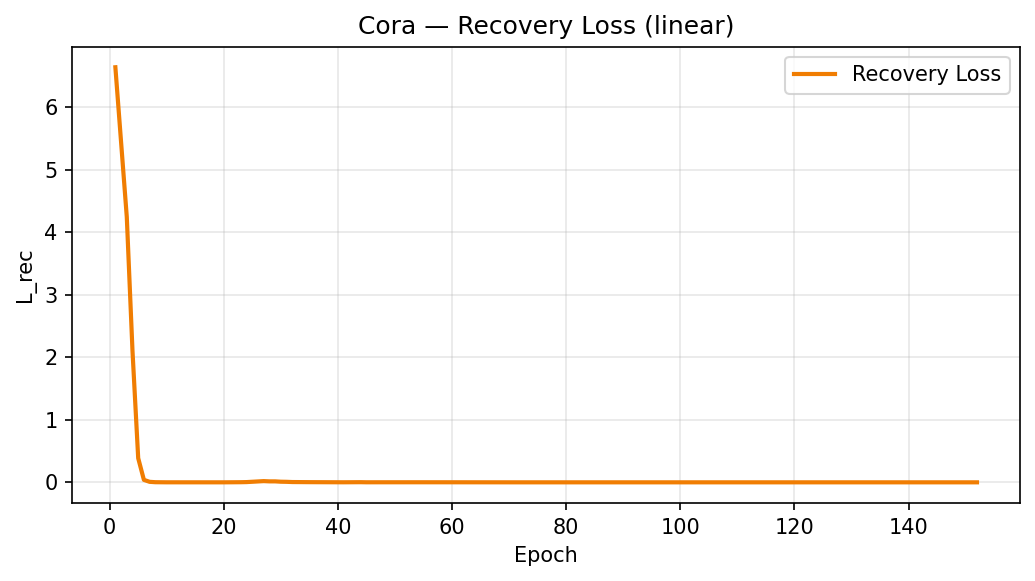
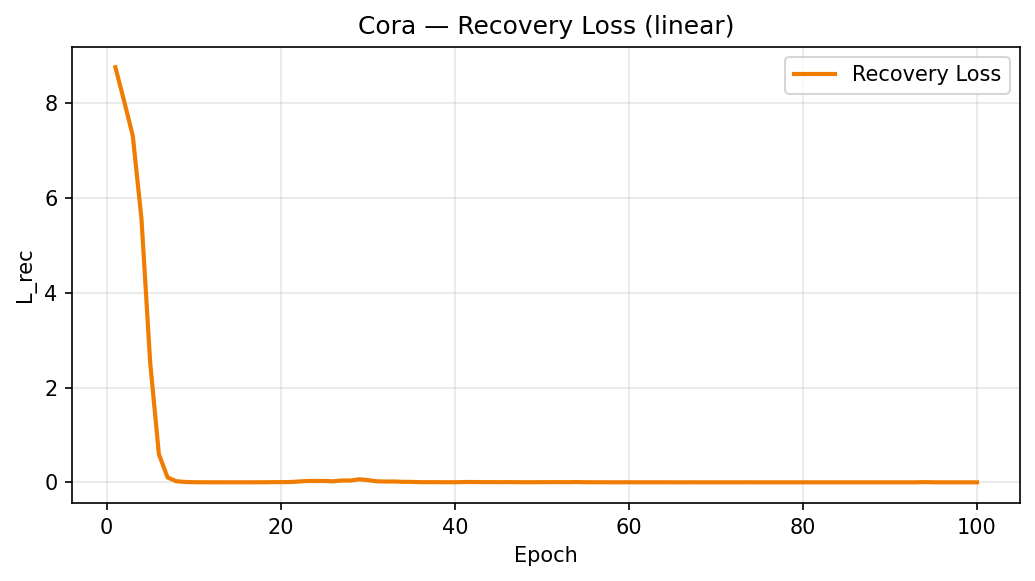
Done with optimizing LSH attention code now

diff --git a/src/model/lsh_attention.py b/src/model/lsh_attention.py
@@ -91,8 +91,11 @@ class LearnedLSHAttention(nn.Module):
         h_global     : (N, hidden_dim)
         bucket_logits: dict with 'q' and 'k' → (N, B)  [for hash loss]
         """
-        N = Q.size(0)
+        N, H, D_h = Q.size(0), self.num_heads, self.head_dim
         device = Q.device
+
+        # Get the max allowed index for your embedding table :: to be needed later
+        max_deg_val = self.deg_src_emb.num_embeddings - 1
 
         # ── Step 1: Bucket logits ─────────────────────────────────────
         q_input = torch.cat([Q, lap_pe], dim=-1)    # (N, d+k)
@@ -104,86 +107,167 @@ class LearnedLSHAttention(nn.Module):
         bq = l_q.argmax(dim=-1)                     # (N,)  — query bucket ids
         bk = l_k.argmax(dim=-1)                     # (N,)  — key   bucket ids
 
-        # ── Step 2: Sparse pair construction ─────────────────────────
-        lsh_pairs  = self._lsh_pairs(bq, bk, N, device)    # (2, P_lsh)
-        graph_pairs = edge_index                            # (2, E)
+        # Step 2 : Sort nodes by bucket ID
+        # We sort Queries and Keys separately because they might land in different buckets
+        q_idx = torch.argsort(bq)
+        k_idx = torch.argsort(bk)
 
-        # Union — concatenate then deduplicate
-        all_pairs = torch.cat([lsh_pairs, graph_pairs], dim=1)  # (2, P)
-        all_pairs = torch.unique(all_pairs, dim=1)               # deduplicate
+        # Step 3 : Reorder everything
+        Q_s, K_s, V_s = Q[q_idx], K[k_idx], V[k_idx]
+        PE_q_s, PE_k_s = lap_pe[q_idx], lap_pe[k_idx]
+        deg_q_s, deg_k_s = deg[q_idx], deg[k_idx]
 
-        src_p = all_pairs[0]   # query nodes  i
-        dst_p = all_pairs[1]   # key   nodes  j
+        # Step 4 : Create Nested Tensors
+        # Find bucket sizes (e.g., how many Queries in bucket 0, 1, 2...)
+        q_counts = torch.bincount(bq, minlength=self.num_buckets)
+        k_counts = torch.bincount(bk, minlength=self.num_buckets)
 
-        # ── Step 3: Attention scores ──────────────────────────────────
-        # Reshape to multi-head
-        Q_h = Q.view(N, self.num_heads, self.head_dim)   # (N, H, d/H)
+        # Step 4.1 : Calculate offsets (starting positions) for each bucket
+        # [0, count1, count1+count2, ...]
+        q_offsets = torch.cat([torch.zeros(1, dtype=torch.long, device=Q.device), q_counts.cumsum(0)])
+        k_offsets = torch.cat([torch.zeros(1, dtype=torch.long, device=Q.device), k_counts.cumsum(0)])
+
+        q_list = []
+        k_list = []
+        v_list = []
+        bias_list = []
+
+        # Step 5 :: iterate over buckets and find the attention scores
+        for b in range(self.num_buckets):
+            # Step 5.1 : Get the start and end indices for this bucket in the sorted arrays
+            s_q, e_q = q_offsets[b], q_offsets[b+1]
+            s_k, e_k = k_offsets[b], k_offsets[b+1]
+
+            # Skip if either side is empty (no attention possible)
+            if s_q == e_q or s_k == e_k:
+                continue
+
+            # Step 5.2 : Slice the sorted tensors
+            q_b = Q_s[s_q:e_q].view(-1, H, D_h).transpose(0, 1) # (H, Nq, Dh)
+            k_b = K_s[s_k:e_k].view(-1, H, D_h).transpose(0, 1) # (H, Nk, Dh)
+            v_b = V_s[s_k:e_k].view(-1, H, D_h).transpose(0, 1) # (H, Nk, Dh)
+
+            # Step 5.3 : Efficient PE Distance (Difference) inside the bucket
+            # shape: (Nq, Nk)
+            pe_q_b = PE_q_s[s_q:e_q]
+            pe_k_s_b = PE_k_s[s_k:e_k]
+
+            # Step 5.4 : Square distance: ||a-b||^2 = ||a||^2 + ||b||^2 - 2ab^T
+            dist_sq = (pe_q_b**2).sum(-1, keepdim=True) + \
+                    (pe_k_s_b**2).sum(-1, keepdim=True).T - \
+                    2 * torch.matmul(pe_q_b, pe_k_s_b.T)
+
+            # Step 5.5 : Take sqrt and bucketize for the SPD bias
+            dist = torch.sqrt(dist_sq.clamp(min=1e-9))
+            spd_idx = torch.bucketize(dist, self.spd_boundaries)
+
+            # Step 5.6 : Construct the Bias (H, Nq, Nk)
+            # SPD bias lookup
+            b_spd = self.spd_bias(spd_idx) # (Nq, Nk, H)
+
+            # Step 5.7 : Degree bias lookup
+            # Clamp the degrees so they never exceed that max index
+            d_q_clamped = deg_q_s[s_q:e_q].clamp(0, max_deg_val)
+            d_k_clamped = deg_k_s[s_k:e_k].clamp(0, max_deg_val)
+
+            # 3. Now perform the lookup safely
+            b_deg = self.deg_src_emb(d_q_clamped).unsqueeze(1) + \
+                    self.deg_dst_emb(d_k_clamped).unsqueeze(0) # (Nq, Nk, H)
+
+            # Combine and permute to (H, Nq, Nk) to match SDPA requirements
+            bias_b = (b_spd + b_deg).permute(2, 0, 1)
+
+            q_list.append(q_b)
+            k_list.append(k_b)
+            v_list.append(v_b)
+            bias_list.append(bias_b)
+
+        # Step 6 : 
+        out_list = []
+        for i in range(len(q_list)):
+            # q_b: (H, Nq, Dh), k_b: (H, Nk, Dh), bias_b: (H, Nq, Nk)
+            
+            # We call SDPA on regular tensors one bucket at a time
+            # This allows us to use the structural bias as the mask
+            bucket_out = F.scaled_dot_product_attention(
+                q_list[i], 
+                k_list[i], 
+                v_list[i], 
+                attn_mask=bias_list[i],
+                dropout_p=self.dropout if self.training else 0.0,
+                is_causal=False
+            )
+            out_list.append(bucket_out)
+        
+        # ── Step 7: Restoration ───────────────────────
+        # 7.1 Create a buffer for the reordered output
+        # Shape: (N, H, head_dim)
+        h_lsh = torch.zeros(N, self.num_heads, self.head_dim, device=device)
+
+        # 7.2 Use the offsets to scatter the results back
+        out_ptr = 0  # Pointer to track which element of out_list we are using
+        for i, b in enumerate(range(self.num_buckets)):
+            s_q, e_q = q_offsets[b], q_offsets[b+1]
+            if s_q == e_q or k_offsets[b] == k_offsets[b+1]:
+                continue
+            
+            # The i-th element in out_list corresponds to bucket b
+            # We move (H, Nq, Dh) -> (Nq, H, Dh)
+            # Get the output for THIS specific non-empty bucket
+            bucket_output = out_list[out_ptr].transpose(0, 1) # (Nq_b, H, Dh)
+            
+            # Map back to original indices using the sorted index map
+            h_lsh[q_idx[s_q:e_q]] = bucket_output
+            
+            out_ptr += 1 # Move to the next result in out_list
+
+        # Step 8 : Process Graph Edges: Handle the edge_index pairs that LSH might have missed
+        # 8.1 Get source and target nodes for graph edges
+        src, dst = edge_index[0], edge_index[1]
+
+        # 8.2 Compute scores for these edges
+        # Reshape Q, K, V to (N, H, Dh) first
+        Q_h = Q.view(N, self.num_heads, self.head_dim)
         K_h = K.view(N, self.num_heads, self.head_dim)
         V_h = V.view(N, self.num_heads, self.head_dim)
 
-        # Dot-product score per head
-        q_pairs = Q_h[src_p]   # (P, H, d/H)
-        k_pairs = K_h[dst_p]   # (P, H, d/H)
-        scores  = (q_pairs * k_pairs).sum(-1) / (self.head_dim ** 0.5)  # (P, H)
+        q_e = Q_h[src] # (E, H, Dh)
+        k_e = K_h[dst] # (E, H, Dh)
 
-        # SPD bias
-        pe_i      = lap_pe[src_p]                         # (|P|, k)
-        pe_j      = lap_pe[dst_p]                         # (|P|, k)
-        pe_dist   = (pe_i - pe_j).norm(dim=-1)            # (|P|,)
-        spd_proxy = torch.bucketize(pe_dist, self.spd_boundaries)  # (|P|,) long
-        spd_b     = self.spd_bias(spd_proxy)              # (|P|, H)
-        scores    = scores + spd_b
+        # Dot product over the head_dim: (E, H)
+        edge_scores = (q_e * k_e).sum(-1) / (self.head_dim ** 0.5)
+
+        # 8.3 Apply the same structural biases to the edges
+        # PE distance bias
+        # Ensure the biases are (E, H)
+        edge_pe_dist = (lap_pe[src] - lap_pe[dst]).norm(dim=-1)
+        edge_spd_bin = torch.bucketize(edge_pe_dist, self.spd_boundaries)
+        edge_scores = edge_scores + self.spd_bias(edge_spd_bin)
 
         # Degree bias
-        deg_src   = deg[src_p].clamp(0, self.deg_src_emb.num_embeddings - 1)
-        deg_dst   = deg[dst_p].clamp(0, self.deg_dst_emb.num_embeddings - 1)
-        scores    = scores + self.deg_src_emb(deg_src) + self.deg_dst_emb(deg_dst)
+        edge_deg_src = deg[src].clamp(0, max_deg_val)
+        edge_deg_dst = deg[dst].clamp(0, max_deg_val)
+        edge_scores = edge_scores + self.deg_src_emb(edge_deg_src) + self.deg_dst_emb(edge_deg_dst)
 
-        # ── Step 4: Sparse softmax (per query node, per head) ─────────
-        # pyg softmax: normalises over all j for each i
-        # We do it head-by-head stacked on dim 1
-        alpha = pyg_softmax(scores, src_p, num_nodes=N)  # (P, H)
-        alpha = self.attn_drop(alpha)
+        # 8.4 Sparse Softmax and Aggregation
+        edge_attn = pyg_softmax(edge_scores, src, num_nodes=N)
+        edge_attn = self.attn_drop(edge_attn)
+        
+        # Aggregate values: Σ α_ij * V_j
+        h_graph = torch.zeros(N, self.num_heads, self.head_dim, device=device)
+        # Reshape src for scattering: (E) -> (E, 1, 1) then expand to (E, H, Dh)
+        index = src.view(-1, 1, 1).expand(-1, self.num_heads, self.head_dim)
+        values = edge_attn.unsqueeze(-1) * V_h[dst] # (E, H, 1) * (E, H, Dh) -> (E, H, Dh)
 
-        # ── Step 5: Value aggregation ─────────────────────────────────
-        # h_global_i = Σ_{j∈P(i)} α_ij · V_j
-        v_pairs   = V_h[dst_p]                           # (P, H, d/H)
-        weighted  = alpha.unsqueeze(-1) * v_pairs        # (P, H, d/H)
+        h_graph.scatter_add_(0, index, values)
 
-        h_global  = torch.zeros(N, self.num_heads, self.head_dim, device=device)
-        h_global.scatter_add_(0,
-            src_p.unsqueeze(-1).unsqueeze(-1).expand_as(weighted),
-            weighted)
+        # 9.1 Combine branches (Sum or Gated Sum) :: Final Combination and Projection
+        # For now, a simple weighted sum or residual-style addition
+        h_total = h_lsh + h_graph
 
-        h_global  = h_global.view(N, self.hidden_dim)   # (N, d)
-        h_global  = self.out_proj(h_global)
+        # 9.2 Final linear projection
+        h_total = h_total.view(N, self.hidden_dim)
+        out = self.out_proj(h_total)
+        out = F.dropout(out, p=self.dropout, training=self.training)
 
-        bucket_logits = {"q": l_q, "k": l_k}
-        return h_global, bucket_logits
-
-    # ─────────────────────────────────────────────────────────────────
-
-    def _lsh_pairs(self, bq: torch.Tensor, bk: torch.Tensor,
-                   N: int, device: torch.device) -> torch.Tensor:
-        """
-        Build P_LSH = {(i,j) | bQ(i) == bK(j)} efficiently.
-        Groups nodes by bucket, then forms all pairs within the same bucket.
-        """
-        pairs = []
-        for b in range(self.num_buckets):
-            q_nodes = (bq == b).nonzero(as_tuple=True)[0]   # nodes with bQ=b
-            k_nodes = (bk == b).nonzero(as_tuple=True)[0]   # nodes with bK=b
-            if q_nodes.numel() == 0 or k_nodes.numel() == 0:
-                continue
-            # Cartesian product
-            ii = q_nodes.unsqueeze(1).expand(-1, k_nodes.size(0)).reshape(-1)
-            jj = k_nodes.unsqueeze(0).expand(q_nodes.size(0), -1).reshape(-1)
-            # Remove self-loops
-            mask = ii != jj
-            pairs.append(torch.stack([ii[mask], jj[mask]], dim=0))
-
-        if not pairs:
-            # Fallback: no LSH pairs found, return empty
-            return torch.zeros(2, 0, dtype=torch.long, device=device)
-
-        return torch.cat(pairs, dim=1)                       # (2, P_lsh)
+        return out, {"q": l_q, "k": l_k}
